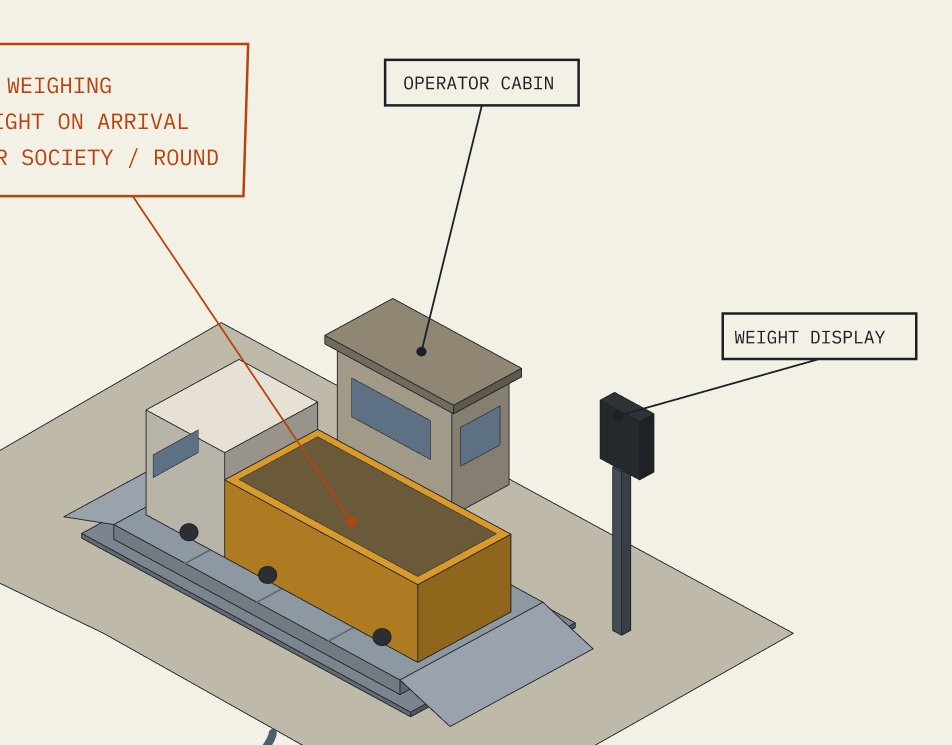
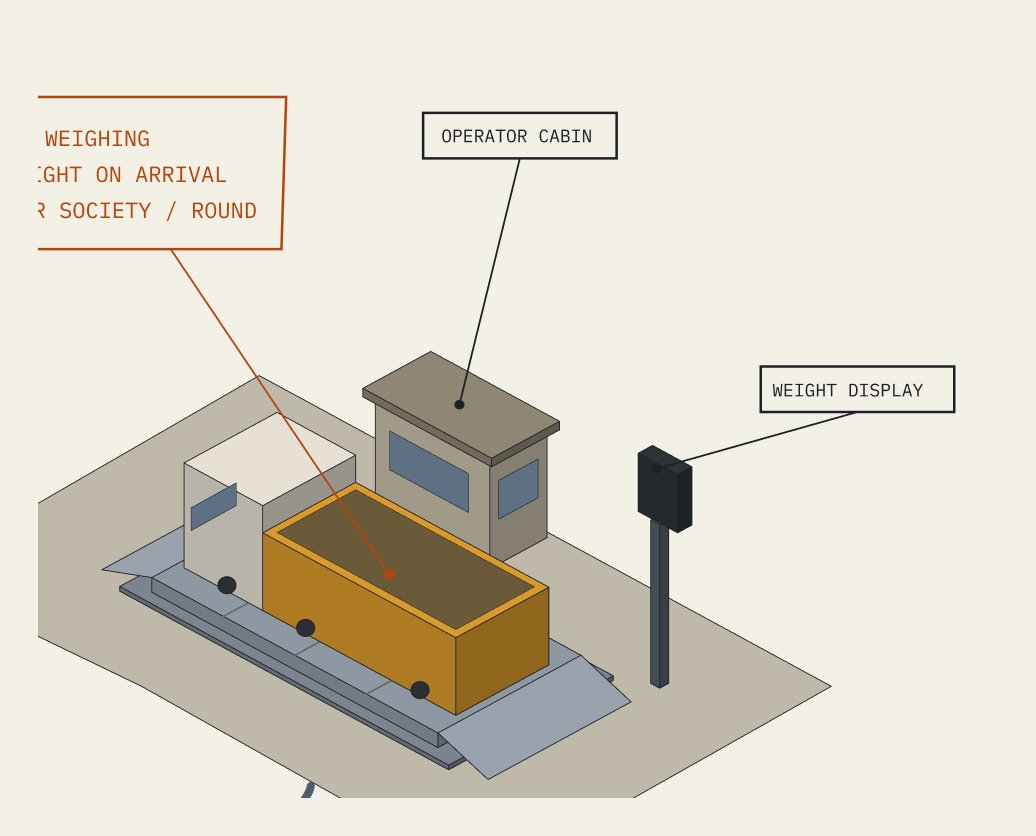
Draft: shorter zero-to-one section with stat tiles, padded blueprint crops
Claude-Session: https://claude.ai/code/session_01WXYrfm4AFSTJ7wojf9PLp1

diff --git a/index.html b/index.html
@@ -176,14 +176,16 @@
   .f-head{margin-bottom:18px}
   .f-head h2{margin:0;line-height:1.2}
   .f-head .meta{color:var(--muted);font-size:.9rem;margin-top:2px}
-  .f-lead{max-width:820px;font-size:1.05rem;color:#222;margin-bottom:24px}
+  .f-lead{max-width:820px;font-size:1.05rem;color:#222;margin-bottom:20px}
+  .f-stats{display:grid;grid-template-columns:repeat(4,1fr);gap:14px;margin-bottom:28px}
+  .f-stats .stat{text-align:left;padding:16px}
+  .f-stats b{display:block;font-size:1.6rem;color:var(--green);line-height:1.1}
+  .f-stats span{margin-top:6px}
   .f-stop{margin-top:18px;border:1px solid #e6ebe8;border-radius:14px;padding:22px;background:#fff}
   .f-stop h3{font-size:1rem;color:var(--green);margin-bottom:10px}
-  .f-stop ul{padding-left:18px;display:grid;grid-template-columns:1fr 1fr;gap:8px 32px}
+  .f-stop ul{padding-left:18px;display:grid;grid-template-columns:1fr;gap:6px}
   .f-stop li{font-size:.9rem;color:#333}
   .linkbtn{font:inherit;background:none;border:none;padding:0;color:var(--green);font-weight:600;text-decoration:underline;cursor:pointer}
-  .f-next{margin-top:14px;padding-top:12px;border-top:1px solid #eee;font-size:.9rem;color:#333}
-  .f-next b{color:var(--green)}
   .f-note{font-size:.75rem;color:#999;margin-top:12px}
 
 
@@ -192,7 +194,7 @@
   .bp-view{display:block;width:100%;border:none;padding:0;cursor:zoom-in;position:relative;transition:background .3s}
   .bp-view img{width:100%;aspect-ratio:16/7;object-fit:contain;display:block;transition:opacity .25s}
   .bp-zoom{position:absolute;right:12px;bottom:10px;font-size:.72rem;font-weight:600;color:#333;background:rgba(255,255,255,.85);border-radius:6px;padding:3px 8px}
-  .bp-cap{padding:14px 18px 6px;font-size:.92rem;color:#333;min-height:3.6em}
+  .bp-cap{padding:12px 18px 4px;font-size:.92rem;color:#333}
   .bp-cap b{color:var(--green);margin-right:4px}
   .bp-steps{display:grid;grid-template-columns:repeat(8,1fr);gap:6px;padding:8px 14px 16px}
   .bp-step{font:inherit;font-size:.78rem;color:#555;background:#fff;border:1px solid #e3e8e5;border-radius:9px;padding:7px 4px;cursor:pointer;display:flex;flex-direction:column;align-items:center;gap:2px;transition:border-color .15s,color .15s,background .15s}
@@ -275,6 +277,7 @@
     .maki-grid,.case{grid-template-columns:1fr}
     .f-stop ul{grid-template-columns:1fr}
     .bp-steps{grid-template-columns:repeat(4,1fr)}
+    .f-stats{grid-template-columns:1fr 1fr}
     .bp-view img{aspect-ratio:4/3}
     .co-head{flex-direction:column;align-items:flex-start;gap:10px}
     .skills{padding:40px 0 4px}
@@ -417,46 +420,31 @@
   <section id="founder">
     <div class="wrap">
       <div class="f-head">
-        <h2>Zero to one: a waste business in Jaipur</h2>
-        <p class="meta">Circular economy · India · 14 months, 2025–2026 · from market research to facility blueprint</p>
+        <h2>Zero to one: a waste-management business</h2>
+        <p class="meta">Circular economy · India · 14 months, 2025–2026</p>
       </div>
-      <p class="f-lead">India’s new Solid Waste Management Rules came into force on 1 April 2026: waste must be separated into four streams, and large housing societies must process their wet waste or pay for it. I set out to build a company that takes that off Jaipur’s housing societies for <span class="hl">₹50 per household a month</span>. I read the law in the gazette, <span class="hl">mapped 14 permits</span>, built the per-tonne economics, <span class="hl">spoke with two businesses already running waste operations</span> and drew the full facility blueprint. Then the numbers told me to stop.</p>
-
-      <div class="maki-grid">
-        <article class="mcard">
-          <h3>Three business models, tested and dropped</h3>
-          <p><b>EPR credit aggregation:</b> the credit revenue existed on paper, and cheap fake credits were already in the market. <b>A ₹42 lakh, 5-tonne-a-day dry-waste plant:</b> too much capital before a single paying customer. <b>Wet-waste collection for housing societies:</b> the one that made it to a blueprint.</p>
-        </article>
-        <article class="mcard">
-          <h3>Biogas and electricity</h3>
-          <p>India’s flagship Indore plant takes 550 t of wet waste a day to make about 17 t of bio-CNG, roughly <span class="hl">32 t of waste per tonne of gas</span>. A 5-tonne-a-day gas plant in Jaipur would need the kitchen waste of about 160,000–220,000 households, every day. Energy plan: sell the gas to the city-gas network, buy grid power, run on solar by day.</p>
-        </article>
-        <article class="mcard">
-          <h3>The law, read at the source</h3>
-          <p>Worked from the SWM Rules 2026 gazette and three Supreme Court orders from 2026. A society becomes a bulk waste generator at 100 kg of waste a day, 40,000 litres of water a day or 20,000 m². Mapped 14 permits across the state pollution board, the municipal corporation, the fire department and company registration.</p>
-        </article>
-        <article class="mcard">
-          <h3>Facility, process and operations</h3>
-          <p>Trucks timed to the shredder, every load weighed and logged per society, no hands on the waste, turned rows under a roof with the hall air treated, and leachate sprayed back onto the piles. Searched India for a profitable private wet-waste operator at this scale: the plants that work are public-private or subsidy-backed.</p>
-        </article>
+      <p class="f-lead">From April 2026, India’s large housing societies must separate their waste and process the wet part, or pay. I built the business to do it for them at <span class="hl">₹50 per household a month</span>, from the law and the per-tonne economics to an 8-step facility blueprint, then <span class="hl">stopped it on the numbers</span>.</p>
+      <div class="f-stats">
+        <div class="stat"><b>3</b><span>business models tested; EPR credits and a ₹42L recycling plant dropped on the numbers</span></div>
+        <div class="stat"><b>14</b><span>permits mapped across the pollution board, city corporation and fire department</span></div>
+        <div class="stat"><b>32 t</b><span>of wet waste for one tonne of biogas: why society waste alone can’t feed a gas plant</span></div>
+        <div class="stat"><b>2</b><span>businesses already running waste operations, consulted along the way</span></div>
       </div>
 
       <p class="gallery-title">Phase 1 blueprint <span>Concept drawings, not to scale · click through the steps</span></p>
       <div class="bp">
         <button type="button" class="bp-view" id="bp-view" style="background:#c9c3b2" aria-label="Open drawing full size"><img id="bp-img" src="assets/img/venture/s1-collect.jpg" alt="Blueprint step 1: Collect" loading="lazy"><span class="bp-zoom">⤢ Full size</span></button>
-        <p class="bp-cap" id="bp-cap" aria-live="polite"><b>1 · Collect</b> Every flat gets a wet-waste bin and each building a lidded bin station. The crew checks for plastic, then the truck makes one stop per building.</p>
-        <div class="bp-steps"><button type="button" class="bp-step on" data-img="assets/img/venture/s1-collect.jpg" data-bg="#c9c3b2" data-t="Collect" data-c="Every flat gets a wet-waste bin and each building a lidded bin station. The crew checks for plastic, then the truck makes one stop per building." data-umami-event="Blueprint step 1"><b>1</b>Collect</button><button type="button" class="bp-step" data-img="assets/img/venture/s2-transport.jpg" data-bg="#c9c3b2" data-t="Transport" data-c="Trucks leave on timed slots, so each one arrives only when the shredder is free. No queue at the gate." data-umami-event="Blueprint step 2"><b>2</b>Transport</button><button type="button" class="bp-step" data-img="assets/img/venture/s3-weigh.jpg" data-bg="#f3f0e6" data-t="Weigh" data-c="Every load is weighed on arrival and logged per society and per round: the basis for billing and proof of service." data-umami-event="Blueprint step 3"><b>3</b>Weigh</button><button type="button" class="bp-step" data-img="assets/img/venture/s4-tip.jpg" data-bg="#c9c3b2" data-t="Tip" data-c="The tipper reverses in and empties into a low-walled buffer bay. No pit to dig, and the floor drains liquid to a sump." data-umami-event="Blueprint step 4"><b>4</b>Tip</button><button type="button" class="bp-step" data-img="assets/img/venture/s5-shred.jpg" data-bg="#f3f0e6" data-t="Shred" data-c="A push blade feeds the shredder at its own pace. One operator watches from a panel and nobody handles the waste. If the shredder is down, loads go to a partner site." data-umami-event="Blueprint step 5"><b>5</b>Shred</button><button type="button" class="bp-step" data-img="assets/img/venture/s6-convey.jpg" data-bg="#f3f0e6" data-t="Convey" data-c="An enclosed conveyor carries the shredded waste into the composting hall, with a point to mix in dry material." data-umami-event="Blueprint step 6"><b>6</b>Convey</button><button type="button" class="bp-step" data-img="assets/img/venture/s7-compost.jpg" data-bg="#f3f0e6" data-t="Compost" data-c="Long rows under a roof, turned by machine on a schedule. The whole hall’s air is extracted and treated before it leaves." data-umami-event="Blueprint step 7"><b>7</b>Compost</button><button type="button" class="bp-step" data-img="assets/img/venture/s8-leachate.jpg" data-bg="#f3f0e6" data-t="Leachate" data-c="Liquid from the floor channels is pumped to a sealed tank and sprayed back onto the active rows, where the heat dries it off." data-umami-event="Blueprint step 8"><b>8</b>Leachate</button></div>
+        <p class="bp-cap" id="bp-cap" aria-live="polite"><b>1 · Collect</b> A wet-waste bin in every flat, a bin station per building, one truck stop per building.</p>
+        <div class="bp-steps"><button type="button" class="bp-step on" data-img="assets/img/venture/s1-collect.jpg" data-bg="#c9c3b2" data-t="Collect" data-c="A wet-waste bin in every flat, a bin station per building, one truck stop per building." data-umami-event="Blueprint step 1"><b>1</b>Collect</button><button type="button" class="bp-step" data-img="assets/img/venture/s2-transport.jpg" data-bg="#c9c3b2" data-t="Transport" data-c="Trucks run on timed slots, so each arrives only when the shredder is free." data-umami-event="Blueprint step 2"><b>2</b>Transport</button><button type="button" class="bp-step" data-img="assets/img/venture/s3-weigh.jpg" data-bg="#f3f0e6" data-t="Weigh" data-c="Every load weighed and logged per society: the basis for billing and proof of service." data-umami-event="Blueprint step 3"><b>3</b>Weigh</button><button type="button" class="bp-step" data-img="assets/img/venture/s4-tip.jpg" data-bg="#c9c3b2" data-t="Tip" data-c="The truck tips into a low-walled bay. No pit to dig; liquid drains to a sump." data-umami-event="Blueprint step 4"><b>4</b>Tip</button><button type="button" class="bp-step" data-img="assets/img/venture/s5-shred.jpg" data-bg="#f3f0e6" data-t="Shred" data-c="A push blade feeds the shredder. One operator watches; nobody touches the waste." data-umami-event="Blueprint step 5"><b>5</b>Shred</button><button type="button" class="bp-step" data-img="assets/img/venture/s6-convey.jpg" data-bg="#f3f0e6" data-t="Convey" data-c="An enclosed conveyor carries shredded waste to the composting hall." data-umami-event="Blueprint step 6"><b>6</b>Convey</button><button type="button" class="bp-step" data-img="assets/img/venture/s7-compost.jpg" data-bg="#f3f0e6" data-t="Compost" data-c="Machine-turned rows under a roof; the hall’s air is extracted and treated." data-umami-event="Blueprint step 7"><b>7</b>Compost</button><button type="button" class="bp-step" data-img="assets/img/venture/s8-leachate.jpg" data-bg="#f3f0e6" data-t="Leachate" data-c="Liquid is collected, stored and sprayed back onto the rows, where the heat dries it off." data-umami-event="Blueprint step 8"><b>8</b>Leachate</button></div>
       </div>
 
       <div class="f-stop">
         <h3>Why I stopped</h3>
         <ul>
-          <li><b>The fee barely covers the work.</b> ₹50 per household is about ₹1,700–2,300 per tonne, against ₹700–2,300 to collect and ₹500–943 to process at municipal rates: <span class="hl">break-even to loss before rent.</span></li>
-          <li><b>No second revenue.</b> Compost sells for about ₹2.5–3 a kg at a 10–30% yield, roughly ₹250–900 per tonne of waste in.</li>
-          <li><b>Heavy before day one.</b> 11 pieces of plant, 3–4 trucks and 14 permits before the first tonne. It sits in the worst corner of the <button type="button" class="linkbtn" data-img="assets/img/venture/capital-chart.svg" data-cap="Capital intensity against potential: where the Phase 1 venture sits." data-umami-event="Founder: capital chart">capital-intensity matrix</button>.</li>
-          <li><b>Founder fit.</b> A solo founder with no operating experience in waste, in a market where profitable plants run on public contracts or subsidy.</li>
+          <li><b>The fee barely covers the work.</b> ₹50 per household is about ₹1,700–2,300 per tonne, roughly what cities pay just to collect and process it.</li>
+          <li><b>Heavy before day one.</b> 11 pieces of plant, 3–4 trucks and 14 permits before the first tonne: the worst corner of the <button type="button" class="linkbtn" data-img="assets/img/venture/capital-chart.svg" data-cap="Capital intensity against potential: where the Phase 1 business sits." data-umami-event="Founder: capital chart">capital-intensity matrix</button>.</li>
+          <li><b>Wrong first business for me.</b> Solo, with no operating experience in waste, in a market where the profitable plants run on public contracts or subsidy.</li>
         </ul>
-        <p class="f-next"><b>Next time:</b> start with collection only and hand the waste to a licensed plant, so demand is proven before any plant is built.</p>
         <p class="f-note">Figures are my own research estimates at the time of each decision.</p>
       </div>
     </div>
